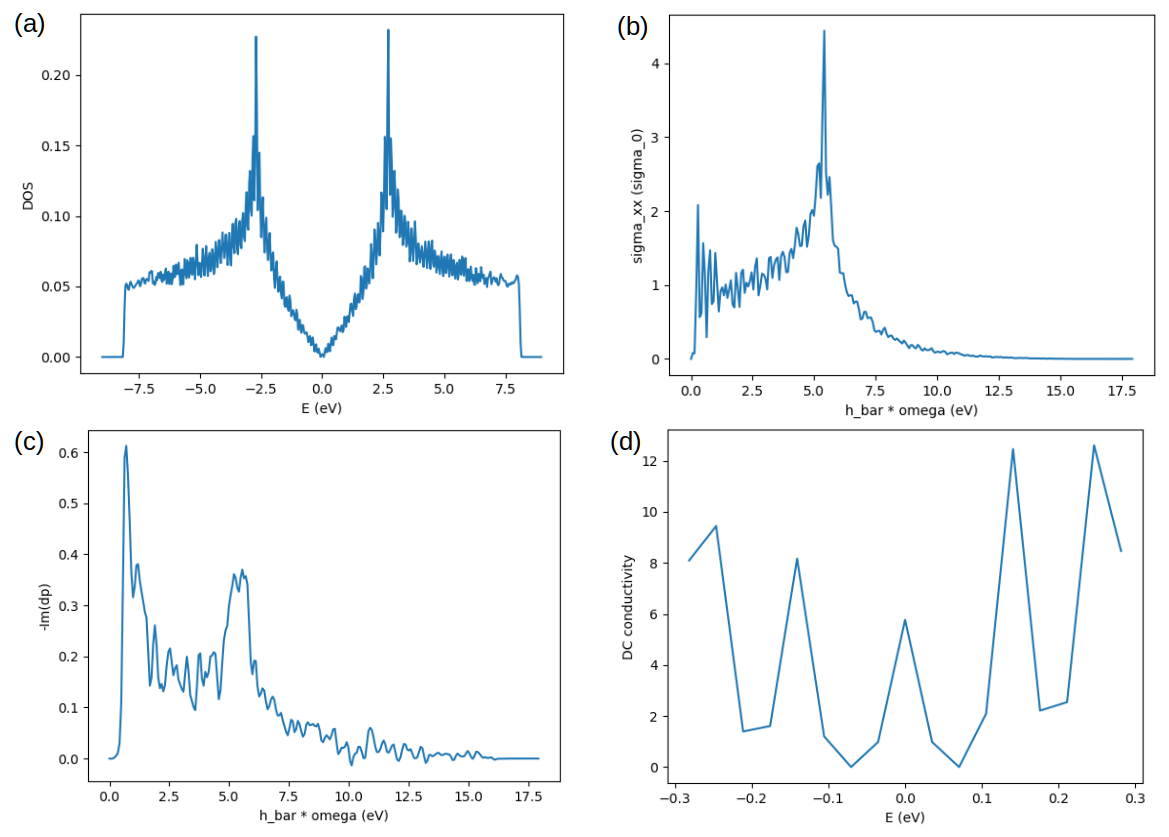
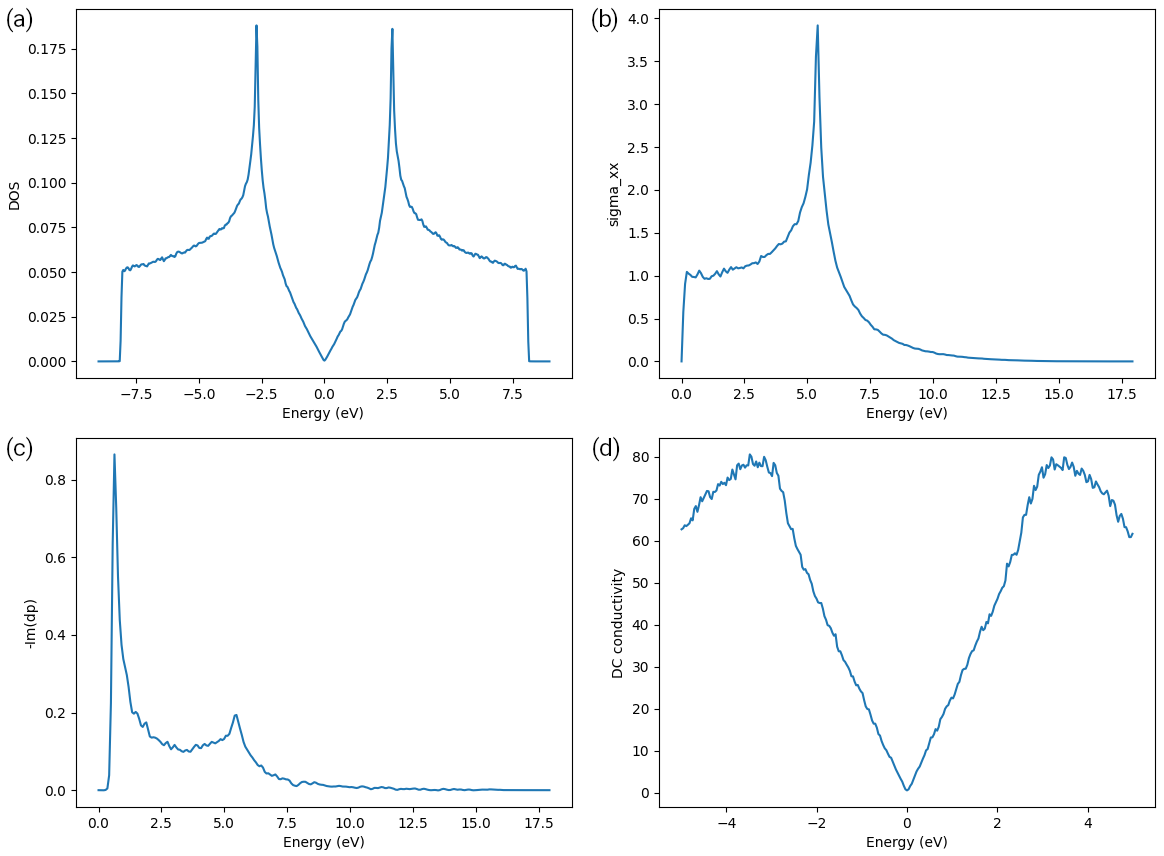
Improved figure quality for doc of TBPM

diff --git a/examples/06-graphene_sample_tbpm.py b/examples/06-graphene_sample_tbpm.py
@@ -28,7 +28,7 @@ import tbplas as tb
 # TBPM algorithms implemented in TBPlaS. First, we create a large graphene
 # sample with periodic boundary conditions.
 prim_cell = tb.make_graphene_diamond()
-super_cell_pbc = tb.SuperCell(prim_cell, dim=(120, 120, 1),
+super_cell_pbc = tb.SuperCell(prim_cell, dim=(480, 480, 1),
                               pbc=(True, True, True))
 sample_pbc = tb.Sample(super_cell_pbc)
 
@@ -58,7 +58,7 @@ energies_dos, dos = analyzer.calc_dos(corr_dos)
 
 # Plot DOS
 plt.plot(energies_dos, dos)
-plt.xlabel("E (eV)")
+plt.xlabel("Energy (eV)")
 plt.ylabel("DOS")
 plt.savefig("DOS.png")
 plt.close()
@@ -67,7 +67,7 @@ plt.close()
 # more parameters into configuration.
 config.generic['correct_spin'] = True
 config.dyn_pol['q_points'] = [[1., 0., 0.]]
-config.DC_conductivity['energy_limits'] = (-0.3, 0.3)
+config.DC_conductivity['energy_limits'] = (-5, 5)
 config.LDOS['site_indices'] = [0]
 config.LDOS['delta'] = 0.1
 config.LDOS['recursion_depth'] = 2000
@@ -80,8 +80,8 @@ analyzer = tb.Analyzer(sample_pbc, config)
 corr_ac = solver.calc_corr_ac_cond()
 omegas_ac, ac = analyzer.calc_ac_cond(corr_ac)
 plt.plot(omegas_ac, ac[0])
-plt.xlabel("h_bar * omega (eV)")
-plt.ylabel("sigma_xx (sigma_0)")
+plt.xlabel("Energy (eV)")
+plt.ylabel("sigma_xx")
 plt.savefig("ACxx.png")
 plt.close()
 
@@ -89,7 +89,7 @@ plt.close()
 corr_dyn_pol = solver.calc_corr_dyn_pol()
 q_val, omegas, dyn_pol = analyzer.calc_dyn_pol(corr_dyn_pol)
 plt.plot(omegas, -1 * dyn_pol[0, :].imag)
-plt.xlabel("h_bar * omega (eV)")
+plt.xlabel("Energy (eV)")
 plt.ylabel("-Im(dp)")
 plt.savefig("dp_imag.png")
 plt.close()
@@ -98,7 +98,7 @@ plt.close()
 corr_dos, corr_dc = solver.calc_corr_dc_cond()
 energies_dc, dc = analyzer.calc_dc_cond(corr_dos, corr_dc)
 plt.plot(energies_dc, dc[0, :])
-plt.xlabel("E (eV)")
+plt.xlabel("Energy (eV)")
 plt.ylabel("DC conductivity")
 plt.savefig("DC.png")
 plt.close()

diff --git a/doc/source/tutorial/sample_tbpm.rst b/doc/source/tutorial/sample_tbpm.rst
@@ -68,7 +68,7 @@ If TBPLaS has been compiled with MKL, also set ``MKL_NUM_THREADS``:
 
     export MKL_NUM_THREADS=8
 
-Then we create a graphene sample with 120*120*1 cells:
+Then we create a graphene sample with 480*480*1 cells:
 
 .. code-block:: python
 
@@ -76,7 +76,7 @@ Then we create a graphene sample with 120*120*1 cells:
     import tbplas as tb
 
     prim_cell = tb.make_graphene_diamond()
-    super_cell = tb.SuperCell(prim_cell, dim=(120, 120, 1), pbc=(True, True, False))
+    super_cell = tb.SuperCell(prim_cell, dim=(480, 480, 1), pbc=(True, True, False))
     sample = tb.Sample(super_cell)
     sample.rescale_ham(9.0)
 
@@ -117,7 +117,7 @@ And visualize the results:
 .. code-block:: python
 
     plt.plot(energies_dos, dos)
-    plt.xlabel("E (eV)")
+    plt.xlabel("Energy (eV)")
     plt.ylabel("DOS")
     plt.savefig("DOS.png")
     plt.close()
@@ -126,7 +126,6 @@ The output is shown in panel (a) of the figure:
 
 .. figure:: images/sample_tbpm/tbpm.png
     :align: center
-    :scale: 75%
 
     Density of states (a), optical (AC) conductivity (b), dynamic polarizability (c) and electronic (DC)
     conductivity (d) of graphene sample.
@@ -141,7 +140,7 @@ We then demonstrate more capabilities of TBPM. Firstly, we add more settings to 
 
     config.generic['correct_spin'] = True
     config.dyn_pol['q_points'] = [[1., 0., 0.]]
-    config.DC_conductivity['energy_limits'] = (-0.3, 0.3)
+    config.DC_conductivity['energy_limits'] = (-5, 5)
     config.LDOS['site_indices'] = [0]
     config.LDOS['delta'] = 0.1
     config.LDOS['recursion_depth'] = 2000
@@ -162,8 +161,8 @@ in the same way as DOS:
     corr_ac = solver.calc_corr_ac_cond()
     omegas_ac, ac = analyzer.calc_ac_cond(corr_ac)
     plt.plot(omegas_ac, ac[0])
-    plt.xlabel("h_bar * omega (eV)")
-    plt.ylabel("sigma_xx (sigma_0)")
+    plt.xlabel("Energy (eV)")
+    plt.ylabel("sigma_xx")
     plt.savefig("ACxx.png")
     plt.close()
 
@@ -171,7 +170,7 @@ in the same way as DOS:
     corr_dyn_pol = solver.calc_corr_dyn_pol()
     q_val, omegas, dyn_pol = analyzer.calc_dyn_pol(corr_dyn_pol)
     plt.plot(omegas, -1 * dyn_pol[0, :].imag)
-    plt.xlabel("h_bar * omega (eV)")
+    plt.xlabel("Energy (eV)")
     plt.ylabel("-Im(dp)")
     plt.savefig("dp_imag.png")
     plt.close()
@@ -180,7 +179,7 @@ in the same way as DOS:
     corr_dos, corr_dc = solver.calc_corr_dc_cond()
     energies_dc, dc = analyzer.calc_dc_cond(corr_dos, corr_dc)
     plt.plot(energies_dc, dc[0, :])
-    plt.xlabel("E (eV)")
+    plt.xlabel("Energy (eV)")
     plt.ylabel("DC conductivity")
     plt.savefig("DC.png")
     plt.close()
